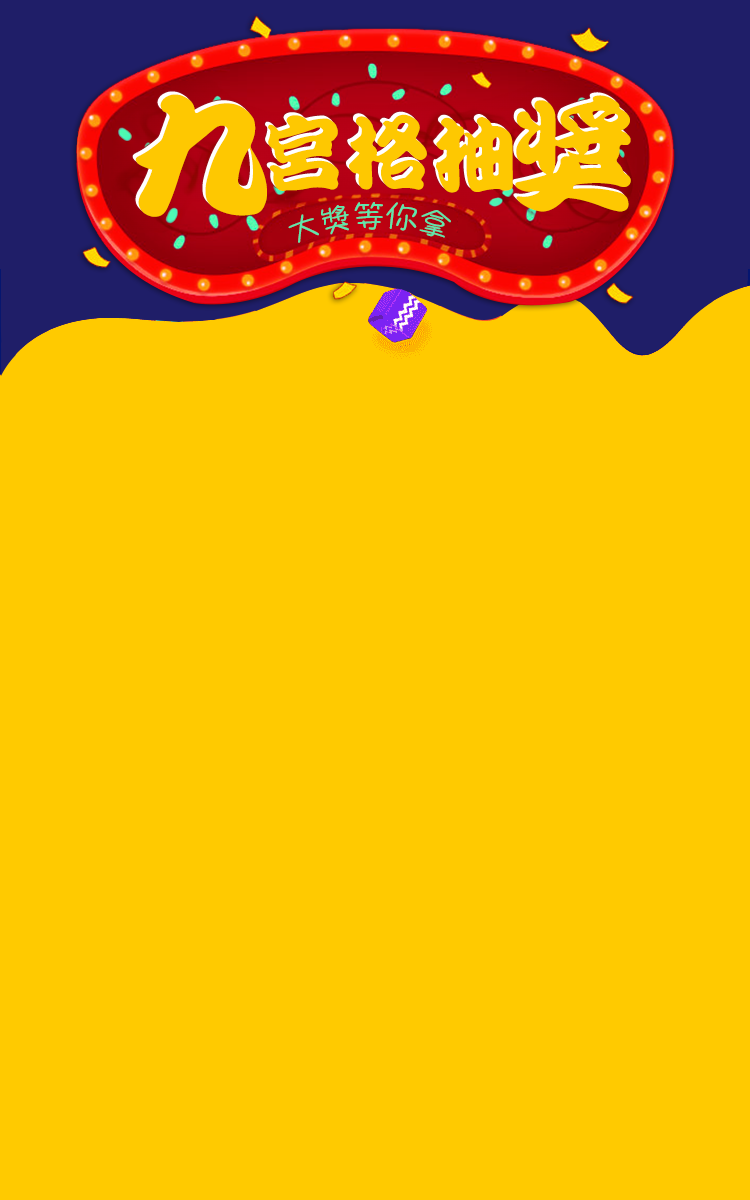
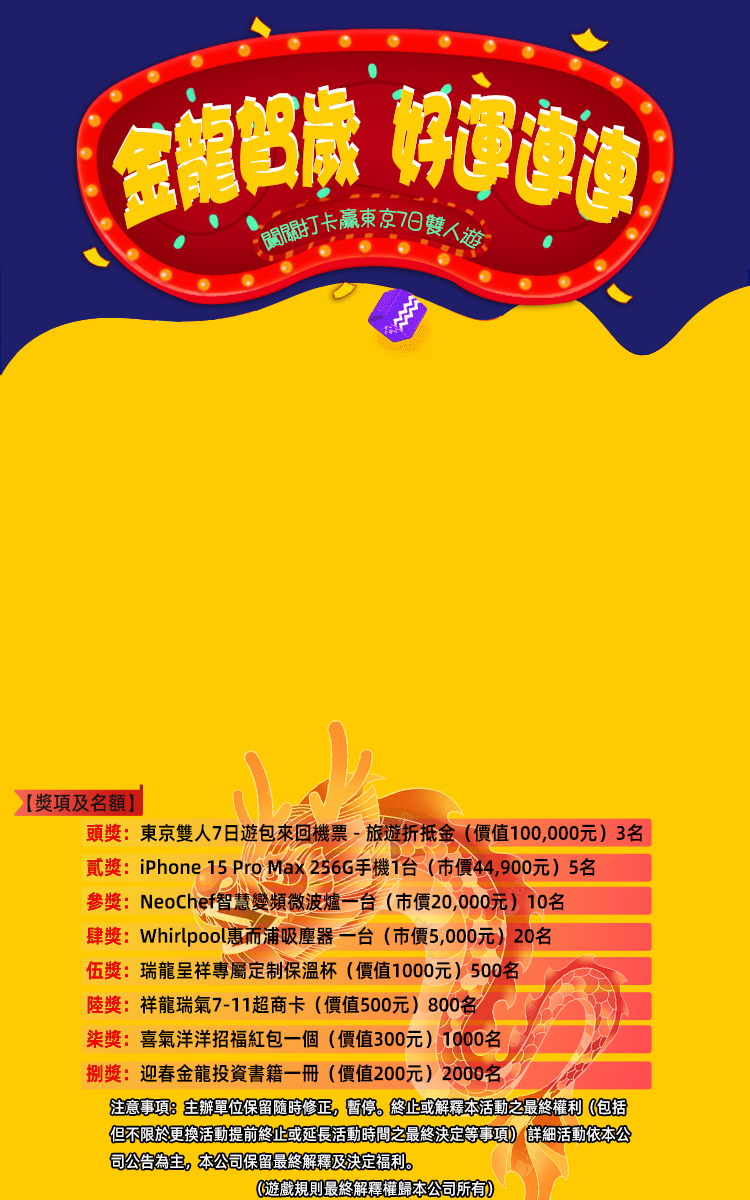
update

Changed region(s): [[0.0, 0.5858, 0.8893, 1.0], [0.1533, 0.0617, 0.8587, 0.2158]]

diff --git a/ruoyi-index/src/assets/styles/index-1.0.0.css b/ruoyi-index/src/assets/styles/index-1.0.0.css
@@ -1,12 +1,12 @@
 @charset "utf-8";
 body {
-  background: url('../image/bg.png') 0% 0% / 100% no-repeat rgb(255, 202, 0);
+  background: url('../image/bg4.png') 0% 0% / 100% no-repeat rgb(255, 202, 0);
   margin: 0px;
   padding: 0px;
 }
 #wrap {
   margin-top: -0.01333333rem;
-  background-image: url("../image/bg.png");
+  background-image: url("../image/bg4.png");
 }
 .time {
   position: absolute;

diff --git a/ruoyi-index/src/App.vue b/ruoyi-index/src/App.vue
@@ -43,6 +43,10 @@
       </div>
     </div>
 
+<!--    <div style="display:block">
+      <img src="./assets/image/bgg1.png" alt="" />
+    </div>-->
+
     <!--未携带邀请码弹窗-->
     <div id="code-rule" ref="code-rule" :class="activeCodeClass? 'active':''  ">
       <div class="box-rule">
